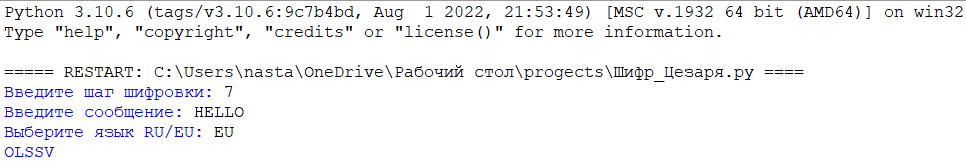
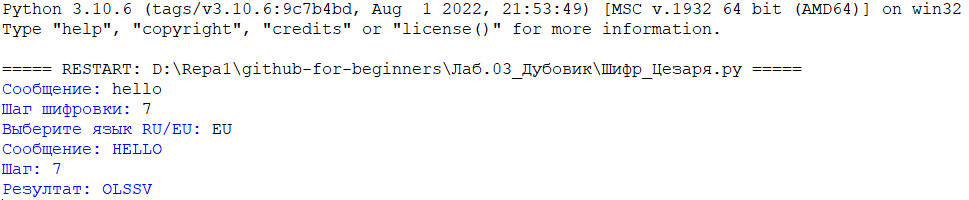
Изменение в readme
Обновление скринов

Changed region(s): [[0.0, 0.3086, 0.8385, 0.9877], [0.0, 0.0, 1.0, 0.2469]]

diff --git a/Лаб.03_Дубовик/Шифр_Цезаря.py b/Лаб.03_Дубовик/Шифр_Цезаря.py
@@ -17,7 +17,7 @@ def func_caesar_eu(message, step):
             result += chr((ord(char) + step - 97) % 26 + 97) 
     return result 
     
-message = input("Сообщение для ДЕшифровки: ").upper() 
+message = input("Сообщение: ").upper() 
 step = int(input('Шаг шифровки: '))  
 lang = input('Выберите язык RU/EU: ')
 

diff --git a/Лаб.03_Дубовик/Readme.md b/Лаб.03_Дубовик/Readme.md
@@ -8,11 +8,11 @@
 + Чтобы запустить код, выберите "Run" → "Run Module" (или F5)
 + Введите шаг шифровки, сообщение и выберите язык
 ---
-*Шифрование строки "ПРИВЕТ" на 3 шага*
+*Шифрование строки "ПРИВЕТ" на 60 шагов*
 ![тест1](Тест1.png)
 *Шифрование строки "HELLO" на 7 шагов*
 ![тест2](Тест2.png)
-*Шифрование строки "АРЫШЦЙЗХРМ" на -8 шагов*
+*Шифрование строки "ШИФРОВКА" на -30 шагов*
 ![тест3](Тест3.png)
 
 ---
